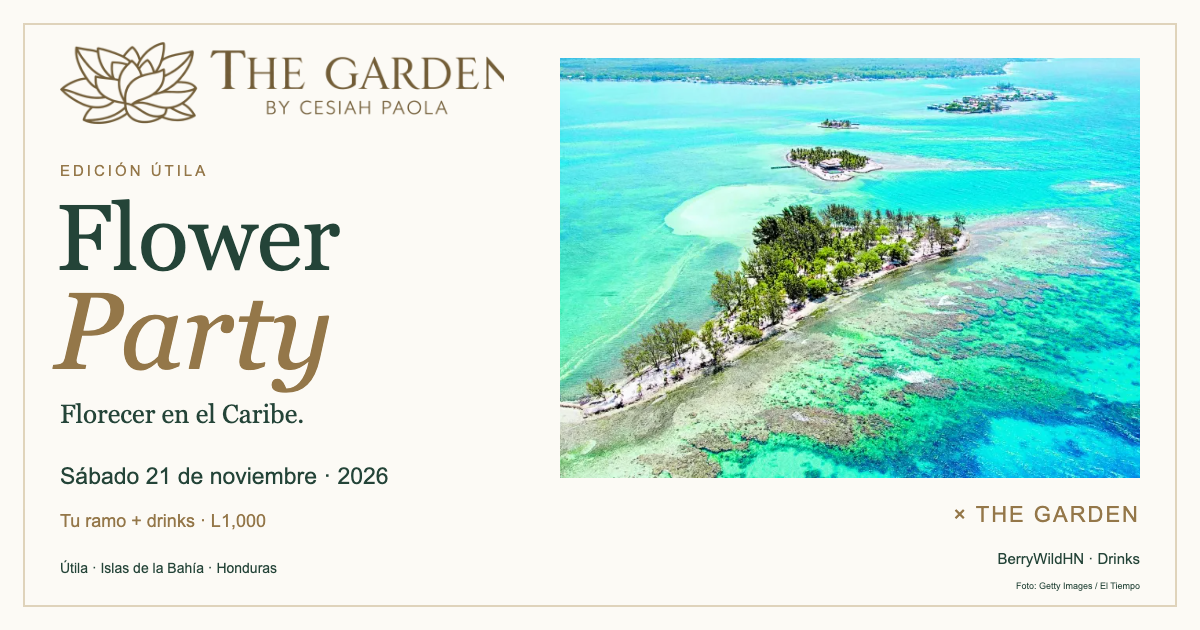
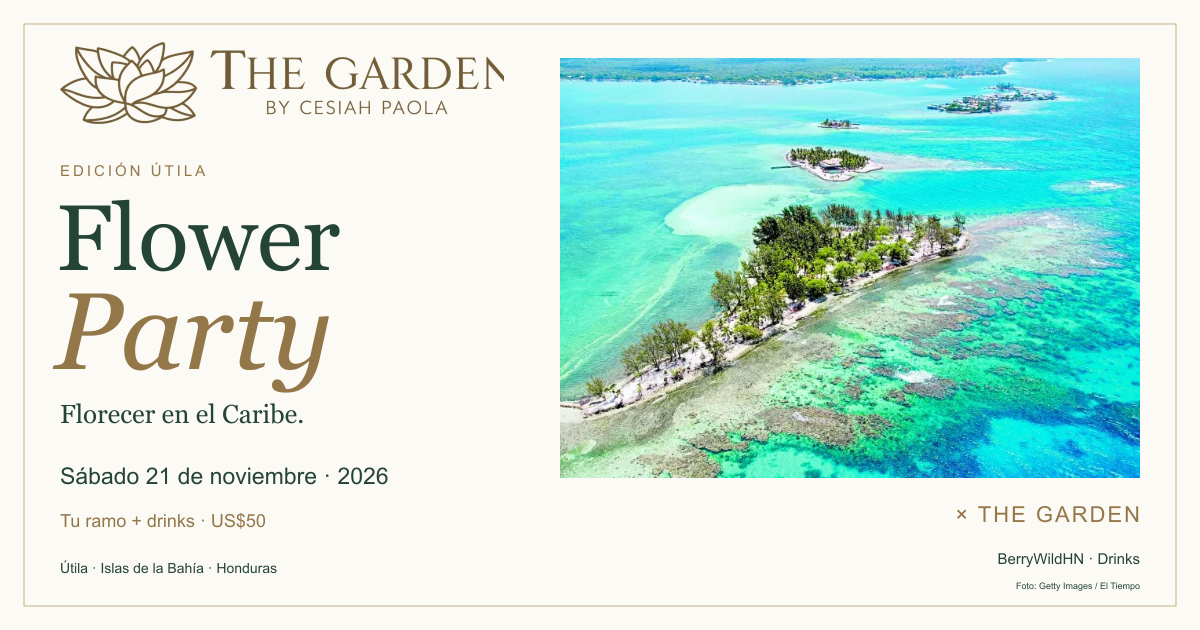
Set Utila Flower Party price to US50

diff --git a/docs/events/utila-flower-party/index.html b/docs/events/utila-flower-party/index.html
@@ -5,26 +5,26 @@
   <meta name="viewport" content="width=device-width, initial-scale=1">
   <meta name="theme-color" content="#fcfaf5">
   <title>Flower Party en Útila · 21 de noviembre | The Garden</title>
-  <meta name="description" content="Flower Party en Útila, Honduras, el sábado 21 de noviembre de 2026. Creá tu ramo de flores frescas y disfrutá drinks de BerryWildHN. L1,000. Reservá con The Garden.">
+  <meta name="description" content="Flower Party en Útila, Honduras, el sábado 21 de noviembre de 2026. Creá tu ramo de flores frescas y disfrutá drinks de BerryWildHN. US$50. Reservá con The Garden.">
   <link rel="canonical" href="https://blendstory.xyz/events/utila-flower-party/">
   <meta property="og:type" content="website">
   <meta property="og:locale" content="es_HN">
   <meta property="og:site_name" content="The Garden by Cesiah Paola">
   <meta property="og:title" content="Flower Party en Útila · Sábado 21 de noviembre">
-  <meta property="og:description" content="Flower Party en Útila, Honduras, el sábado 21 de noviembre de 2026. Creá tu ramo de flores frescas y disfrutá drinks de BerryWildHN. L1,000. Reservá con The Garden.">
+  <meta property="og:description" content="Flower Party en Útila, Honduras, el sábado 21 de noviembre de 2026. Creá tu ramo de flores frescas y disfrutá drinks de BerryWildHN. US$50. Reservá con The Garden.">
   <meta property="og:url" content="https://blendstory.xyz/events/utila-flower-party/">
-  <meta property="og:image" content="https://blendstory.xyz/events/utila-flower-party/og-image-v1.png">
-  <meta property="og:image:secure_url" content="https://blendstory.xyz/events/utila-flower-party/og-image-v1.png">
+  <meta property="og:image" content="https://blendstory.xyz/events/utila-flower-party/og-image-v1.png?v=usd50">
+  <meta property="og:image:secure_url" content="https://blendstory.xyz/events/utila-flower-party/og-image-v1.png?v=usd50">
   <meta property="og:image:type" content="image/png">
   <meta property="og:image:width" content="1200">
   <meta property="og:image:height" content="630">
-  <meta property="og:image:alt" content="Flower Party en Útila × The Garden. Sábado 21 de noviembre de 2026. L1,000, incluye tu ramo y drinks.">
+  <meta property="og:image:alt" content="Flower Party en Útila × The Garden. Sábado 21 de noviembre de 2026. US$50, incluye tu ramo y drinks.">
   <meta name="twitter:card" content="summary_large_image">
   <meta name="twitter:title" content="Flower Party en Útila · Sábado 21 de noviembre">
-  <meta name="twitter:description" content="Flower Party en Útila, Honduras, el sábado 21 de noviembre de 2026. Creá tu ramo de flores frescas y disfrutá drinks de BerryWildHN. L1,000. Reservá con The Garden.">
-  <meta name="twitter:image" content="https://blendstory.xyz/events/utila-flower-party/og-image-v1.png">
+  <meta name="twitter:description" content="Flower Party en Útila, Honduras, el sábado 21 de noviembre de 2026. Creá tu ramo de flores frescas y disfrutá drinks de BerryWildHN. US$50. Reservá con The Garden.">
+  <meta name="twitter:image" content="https://blendstory.xyz/events/utila-flower-party/og-image-v1.png?v=usd50">
   <meta name="twitter:image:alt" content="Útila Flower Party × The Garden, 21 de noviembre de 2026.">
-  <script type="application/ld+json">{"@context": "https://schema.org", "@type": "Event", "name": "Flower Party en Útila × The Garden", "description": "Flower Party en Útila, Honduras, el sábado 21 de noviembre de 2026. Creá tu ramo de flores frescas y disfrutá drinks de BerryWildHN. L1,000. Reservá con The Garden.", "url": "https://blendstory.xyz/events/utila-flower-party/", "startDate": "2026-11-21", "eventAttendanceMode": "https://schema.org/OfflineEventAttendanceMode", "eventStatus": "https://schema.org/EventScheduled", "image": ["https://blendstory.xyz/events/utila-flower-party/og-image-v1.png", "https://blendstory.xyz/events/utila-flower-party/utila-el-tiempo.webp"], "location": {"@type": "Place", "name": "Útila · Punto de encuentro por confirmar", "address": {"@type": "PostalAddress", "addressLocality": "Útila", "addressRegion": "Islas de la Bahía", "addressCountry": "HN"}}, "organizer": {"@type": "Organization", "name": "The Garden by Cesiah Paola", "url": "https://www.instagram.com/thegardenbycesiahpaola/"}, "offers": {"@type": "Offer", "price": "1000", "priceCurrency": "HNL", "url": "https://wa.me/50496724404?text=Hola%2C%20quiero%20reservar%20para%20Flower%20Party%20en%20%C3%9Atila%20el%20s%C3%A1bado%2021%20de%20noviembre%20de%202026%20para%20___%20personas.%20%C2%BFCu%C3%A1l%20es%20el%20horario%20y%20el%20punto%20de%20encuentro%3F"}}</script>
+  <script type="application/ld+json">{"@context": "https://schema.org", "@type": "Event", "name": "Flower Party en Útila × The Garden", "description": "Flower Party en Útila, Honduras, el sábado 21 de noviembre de 2026. Creá tu ramo de flores frescas y disfrutá drinks de BerryWildHN. US$50. Reservá con The Garden.", "url": "https://blendstory.xyz/events/utila-flower-party/", "startDate": "2026-11-21", "eventAttendanceMode": "https://schema.org/OfflineEventAttendanceMode", "eventStatus": "https://schema.org/EventScheduled", "image": ["https://blendstory.xyz/events/utila-flower-party/og-image-v1.png?v=usd50", "https://blendstory.xyz/events/utila-flower-party/utila-el-tiempo.webp"], "location": {"@type": "Place", "name": "Útila · Punto de encuentro por confirmar", "address": {"@type": "PostalAddress", "addressLocality": "Útila", "addressRegion": "Islas de la Bahía", "addressCountry": "HN"}}, "organizer": {"@type": "Organization", "name": "The Garden by Cesiah Paola", "url": "https://www.instagram.com/thegardenbycesiahpaola/"}, "offers": {"@type": "Offer", "price": "50", "priceCurrency": "USD", "url": "https://wa.me/50496724404?text=Hola%2C%20quiero%20reservar%20para%20Flower%20Party%20en%20%C3%9Atila%20el%20s%C3%A1bado%2021%20de%20noviembre%20de%202026%20para%20___%20personas.%20%C2%BFCu%C3%A1l%20es%20el%20horario%20y%20el%20punto%20de%20encuentro%3F"}}</script>
   <style>*{box-sizing:border-box}body{margin:0;background:#eee9df;color:#244438;font-family:Arial,Helvetica,sans-serif}main{max-width:720px;margin:24px auto;box-shadow:0 14px 65px #67542e12}main>svg{display:block;width:100%;height:auto}.tools{max-width:720px;margin:20px auto 30px;padding:0 22px;display:flex;align-items:center;justify-content:space-between;gap:15px;font-size:13px}a{color:inherit;text-decoration:none}button{font:inherit;color:#fff;background:#244438;border:0;padding:12px 18px;border-radius:24px;cursor:pointer}a:focus-visible,button:focus-visible{outline:2px solid #947749;outline-offset:5px}#share-status{font-size:12px;min-height:20px;text-align:center;color:#68715f}@media(max-width:750px){body{background:#fcfaf5}main{margin:0;box-shadow:none}.tools{margin-top:10px}}.reservations{max-width:720px;margin:24px auto 0;padding:20px 24px;text-align:center}.wa-button{display:inline-flex;align-items:center;justify-content:center;background:#244438;color:#fff;padding:16px 22px;border-radius:32px;font-size:15px;font-weight:600;line-height:1.4;max-width:100%}.wa-button:hover{background:#315e4b}.wa-number{display:block;width:fit-content;margin:16px auto 0;font-size:15px;color:#244438}.reservations p{font-size:12px;line-height:1.7;color:#69725f;max-width:430px;margin:13px auto 0}.drinks-partner{max-width:720px;margin:0 auto;padding:0 24px 12px}.drinks-partner>a{display:flex;align-items:center;justify-content:center;gap:18px;width:fit-content;margin:auto;padding:12px}.drinks-partner img{width:76px;height:76px;border-radius:10px;object-fit:contain}.drinks-partner small{display:block;font-size:9px;letter-spacing:2px;color:#947749}.drinks-partner strong{display:block;font-size:21px;font-weight:500;margin-top:5px;color:#244438}.partner-handle{display:block;font-size:12px;color:#69725f;margin-top:6px}.sr-only{position:absolute;width:1px;height:1px;padding:0;margin:-1px;overflow:hidden;clip:rect(0,0,0,0);white-space:nowrap;border:0}.partner-brand{text-align:center}.partner-brand svg{display:block;max-width:100%;margin:5px auto}
 .photo-credit,.island-note{max-width:720px;margin:0 auto;padding:14px 24px;color:#69725f;font:12px/1.8 Arial,sans-serif}.photo-credit a,.island-note a{text-decoration:underline;text-underline-offset:3px}.island-note h2{font:400 27px/1.2 Georgia,serif;color:#244438;margin:0 0 12px}.island-note p{margin:0}.island-note p+p{margin-top:10px}.event-back{display:block;max-width:720px;margin:auto;padding:20px 24px;font-size:13px}
 </style>
@@ -36,7 +36,7 @@
     <h1 class="sr-only">Flower Party en Útila, Honduras · 21 de noviembre de 2026</h1>
     <svg xmlns="http://www.w3.org/2000/svg" width="720" height="1280" viewBox="0 0 720 1280" role="img" aria-labelledby="poster-title poster-description">
   <title id="poster-title">Flower Party en Útila × The Garden</title>
-  <desc id="poster-description">Sábado 21 de noviembre de 2026. Flower Party en Útila, Islas de la Bahía, Honduras. Diseñá tu ramo con flores frescas y disfrutá drinks de BerryWildHN. L1,000. Horario y punto de encuentro por confirmar.</desc>
+  <desc id="poster-description">Sábado 21 de noviembre de 2026. Flower Party en Útila, Islas de la Bahía, Honduras. Diseñá tu ramo con flores frescas y disfrutá drinks de BerryWildHN. US$50. Horario y punto de encuentro por confirmar.</desc>
   <style>
     text{fill:#244438;font-family:Arial,Helvetica,sans-serif}
     .serif{font-family:Georgia,"Times New Roman",serif}
@@ -65,7 +65,7 @@
   <path d="M56 951H664" stroke="#c3ad80"/>
   <text x="56" y="990" font-size="16" class="gold small">SÁBADO 21 DE NOVIEMBRE · 2026</text>
   <text x="56" y="1044" font-size="34" class="serif">Útila · Honduras</text>
-  <text x="664" y="1044" text-anchor="end" font-size="52" class="serif gold">L1,000</text>
+  <text x="664" y="1044" text-anchor="end" font-size="52" class="serif gold">US$50</text>
   <text x="56" y="1090" font-size="19" class="muted">Horario y punto de encuentro por confirmar.</text>
   <path d="M56 1130H664" stroke="#d8c8aa"/>
   <text x="56" y="1162" font-size="22" class="serif">The Garden by Cesiah Paola</text>

diff --git a/docs/events/index.html b/docs/events/index.html
@@ -4,7 +4,7 @@
     <span class="label">THE GARDEN BY CESIAH PAOLA · ÚTILA</span>
     <h2>Útila Flower Party</h2>
     <p>Diseñá tu ramo de flores frescas, disfrutá drinks de BerryWildHN y compartí una experiencia en el Caribe hondureño.</p>
-    <p>Sábado 21 de noviembre de 2026 · L1,000</p>
+    <p>Sábado 21 de noviembre de 2026 · US$50</p>
     <a class="text-link" href="utila-flower-party/">See the invitation &amp; reserve ↗</a>
   </div>
 </article><article class="event-item"><a href="flower-party/"><img src="flower-party/experience.jpg" alt="A bouquet and BerryWildHN drinks illustrating The Garden Flower Party" width="1536" height="1024"></a><div><span class="label">THE GARDEN BY CESIAH PAOLA</span><h2>Flower Party</h2><p>Diseñá tu ramo de flores naturales frescas, disfrutá drinks de BerryWildHN y conectá con otras mujeres.</p><p>Jueves de noviembre y diciembre · L800</p><a class="text-link" href="flower-party/">See the invitation &amp; reserve ↗</a></div></article></main><footer class="mag-footer"><a href="../">← Blendstory</a><a href="../team/">The team ↗</a><button id="color-motion" type="button" aria-pressed="false">Pause colors</button></footer><script src="../assets/brand-theme.js"></script></body></html>
